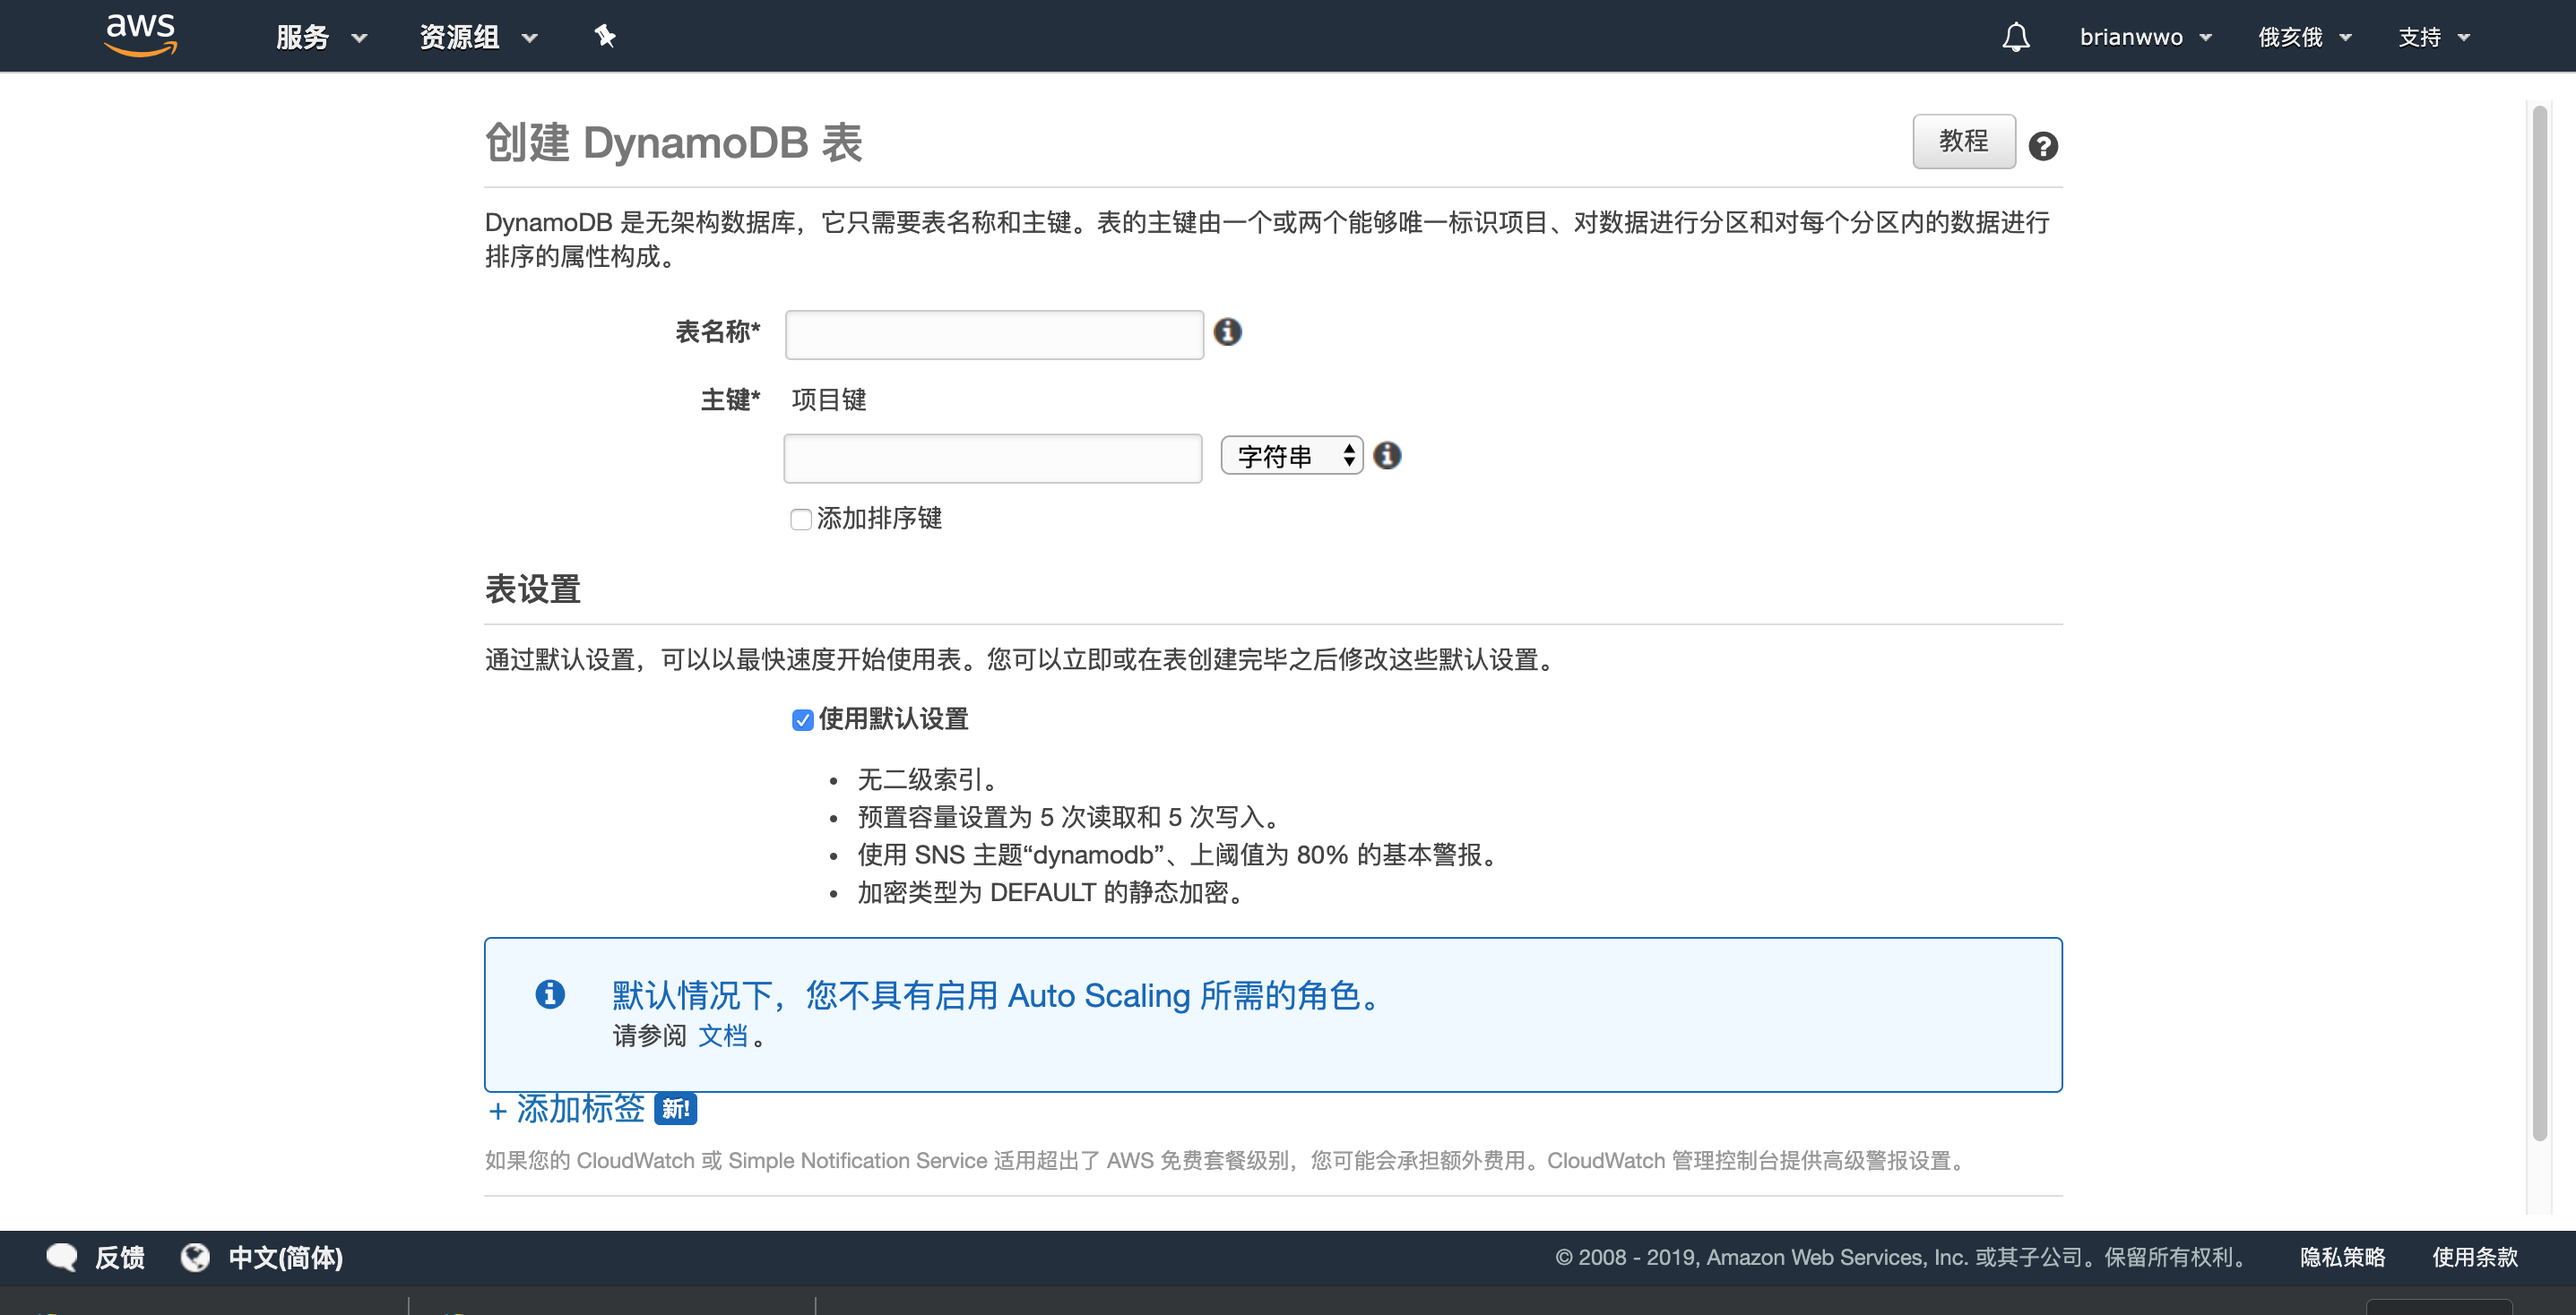
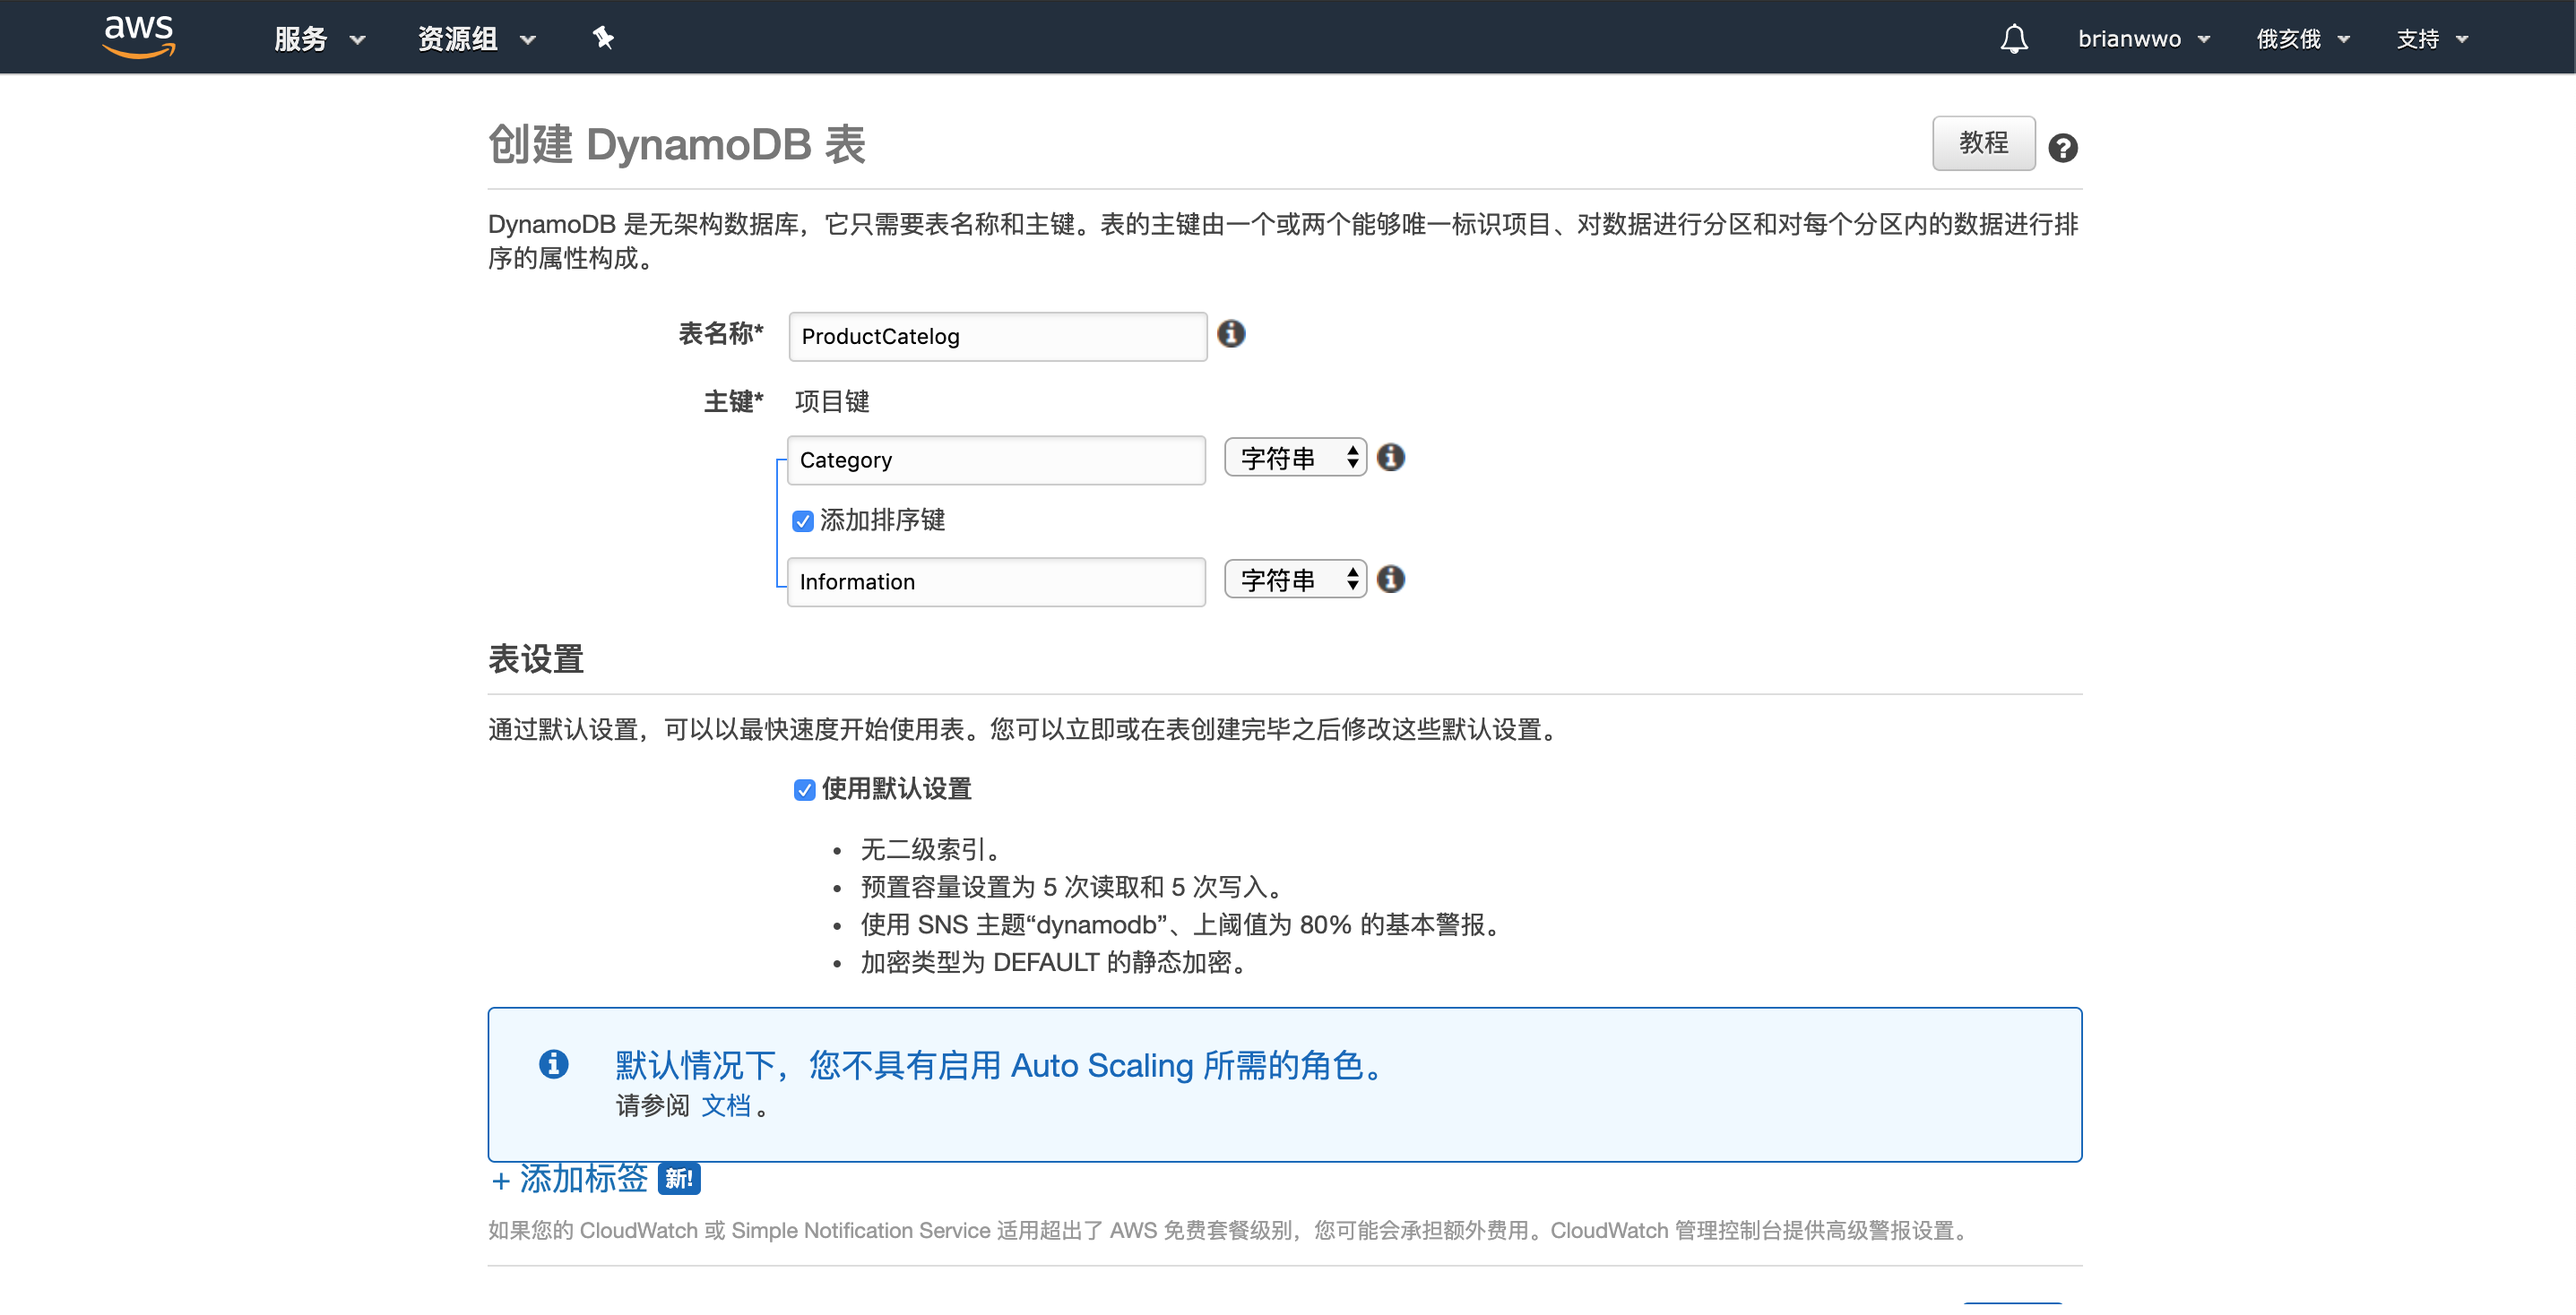
update readme

diff --git a/README.md b/README.md
@@ -13,9 +13,8 @@
 
 #### 可改进空间
 1. 可在S3上游搭建Cloud Front以作为CDN对静态资源作为缓存，提高非本程序Region的可访问性，减少延迟。
-2. 可在Lambda Function层添加错误处理。发送消息到相关人员或者集成相关错误处理系统。
-3. 此demo采用Dynamodb的scan特性对表中所有项目进行匹配，在数据量非常大的时候查询会非常耗时。可在增加Dynamodb DAX缓存层，以减少用户对数据库的直接访问。<br>
-或者在设计表时把产品分类存储以避免把所有的主数据放在一张表里。<br>
+2. 可在Lambda Function层添加错误处理，当重试次数达到预设值后发送消息到相关人员或者集成相关错误处理系统。
+3. 可在增加Dynamodb DAX缓存层，以减少用户对数据库的直接访问。
 4. 增加域名并开启https (Route 53)。
 5. 可按照需求增加是否需要用户验证，AWS Cognito。
 6. 利用AWS Codedeploy自动部署静态资源和Lambda Function。
@@ -23,9 +22,9 @@
 # 操作步骤
 1. 搭建DynamoDB
    1. ![DynamoDB](./diagrams/dynamodb.png)
-   创建Products表{ID (分区键), value (二级索引)}
+   创建ProductCatelog表{Category (分区键), Information (排序键)}
 2. 搭建Lamda Function
-   1. 新建Lamda访问角色，选择AWSLambdaBasicExecutionRole为托管策略，选择Scan作为内联策略。
+   1. 新建Lamda访问角色，选择AWSLambdaBasicExecutionRole为托管策略，选择Query作为内联策略。
    ![Role](./diagrams/role.png)
    2. 新建Lamda Function，选择上述角色，待Function写完之后保存并发布。
 3. API Gateway
@@ -36,11 +35,12 @@
    4. 测试API Gateway是否可访问
    ![Test APIGateway](./diagrams/testag.png)
 4. S3
-   1. 新建S3 bucket,不够选阻止公共访问
+   1. 新建S3 bucket,不勾选阻止公共访问
    ![S3 Create](./diagrams/s3new.png)
    2. 利用策略生成器生成所有公共访问允许的策略并粘贴进存储桶策略
    ![S3 Create](./diagrams/s3policy.png)
    3. 上传静态web文件到存储桶
    4. 打开静态托管
    ![S3 Create](./diagrams/s3web.png)
+5. 测试
 
